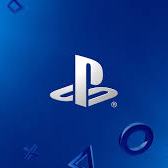
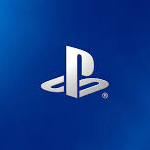
новые иконки

diff --git a/server/web_front_container/index.html b/server/web_front_container/index.html
@@ -87,7 +87,7 @@
     </div>
 
     <div class="code">
-        <img src="src/psplus.png">
+        <img src="src/psplus.jpg">
         <div class="info">
             Paystation Plus
         </div>
